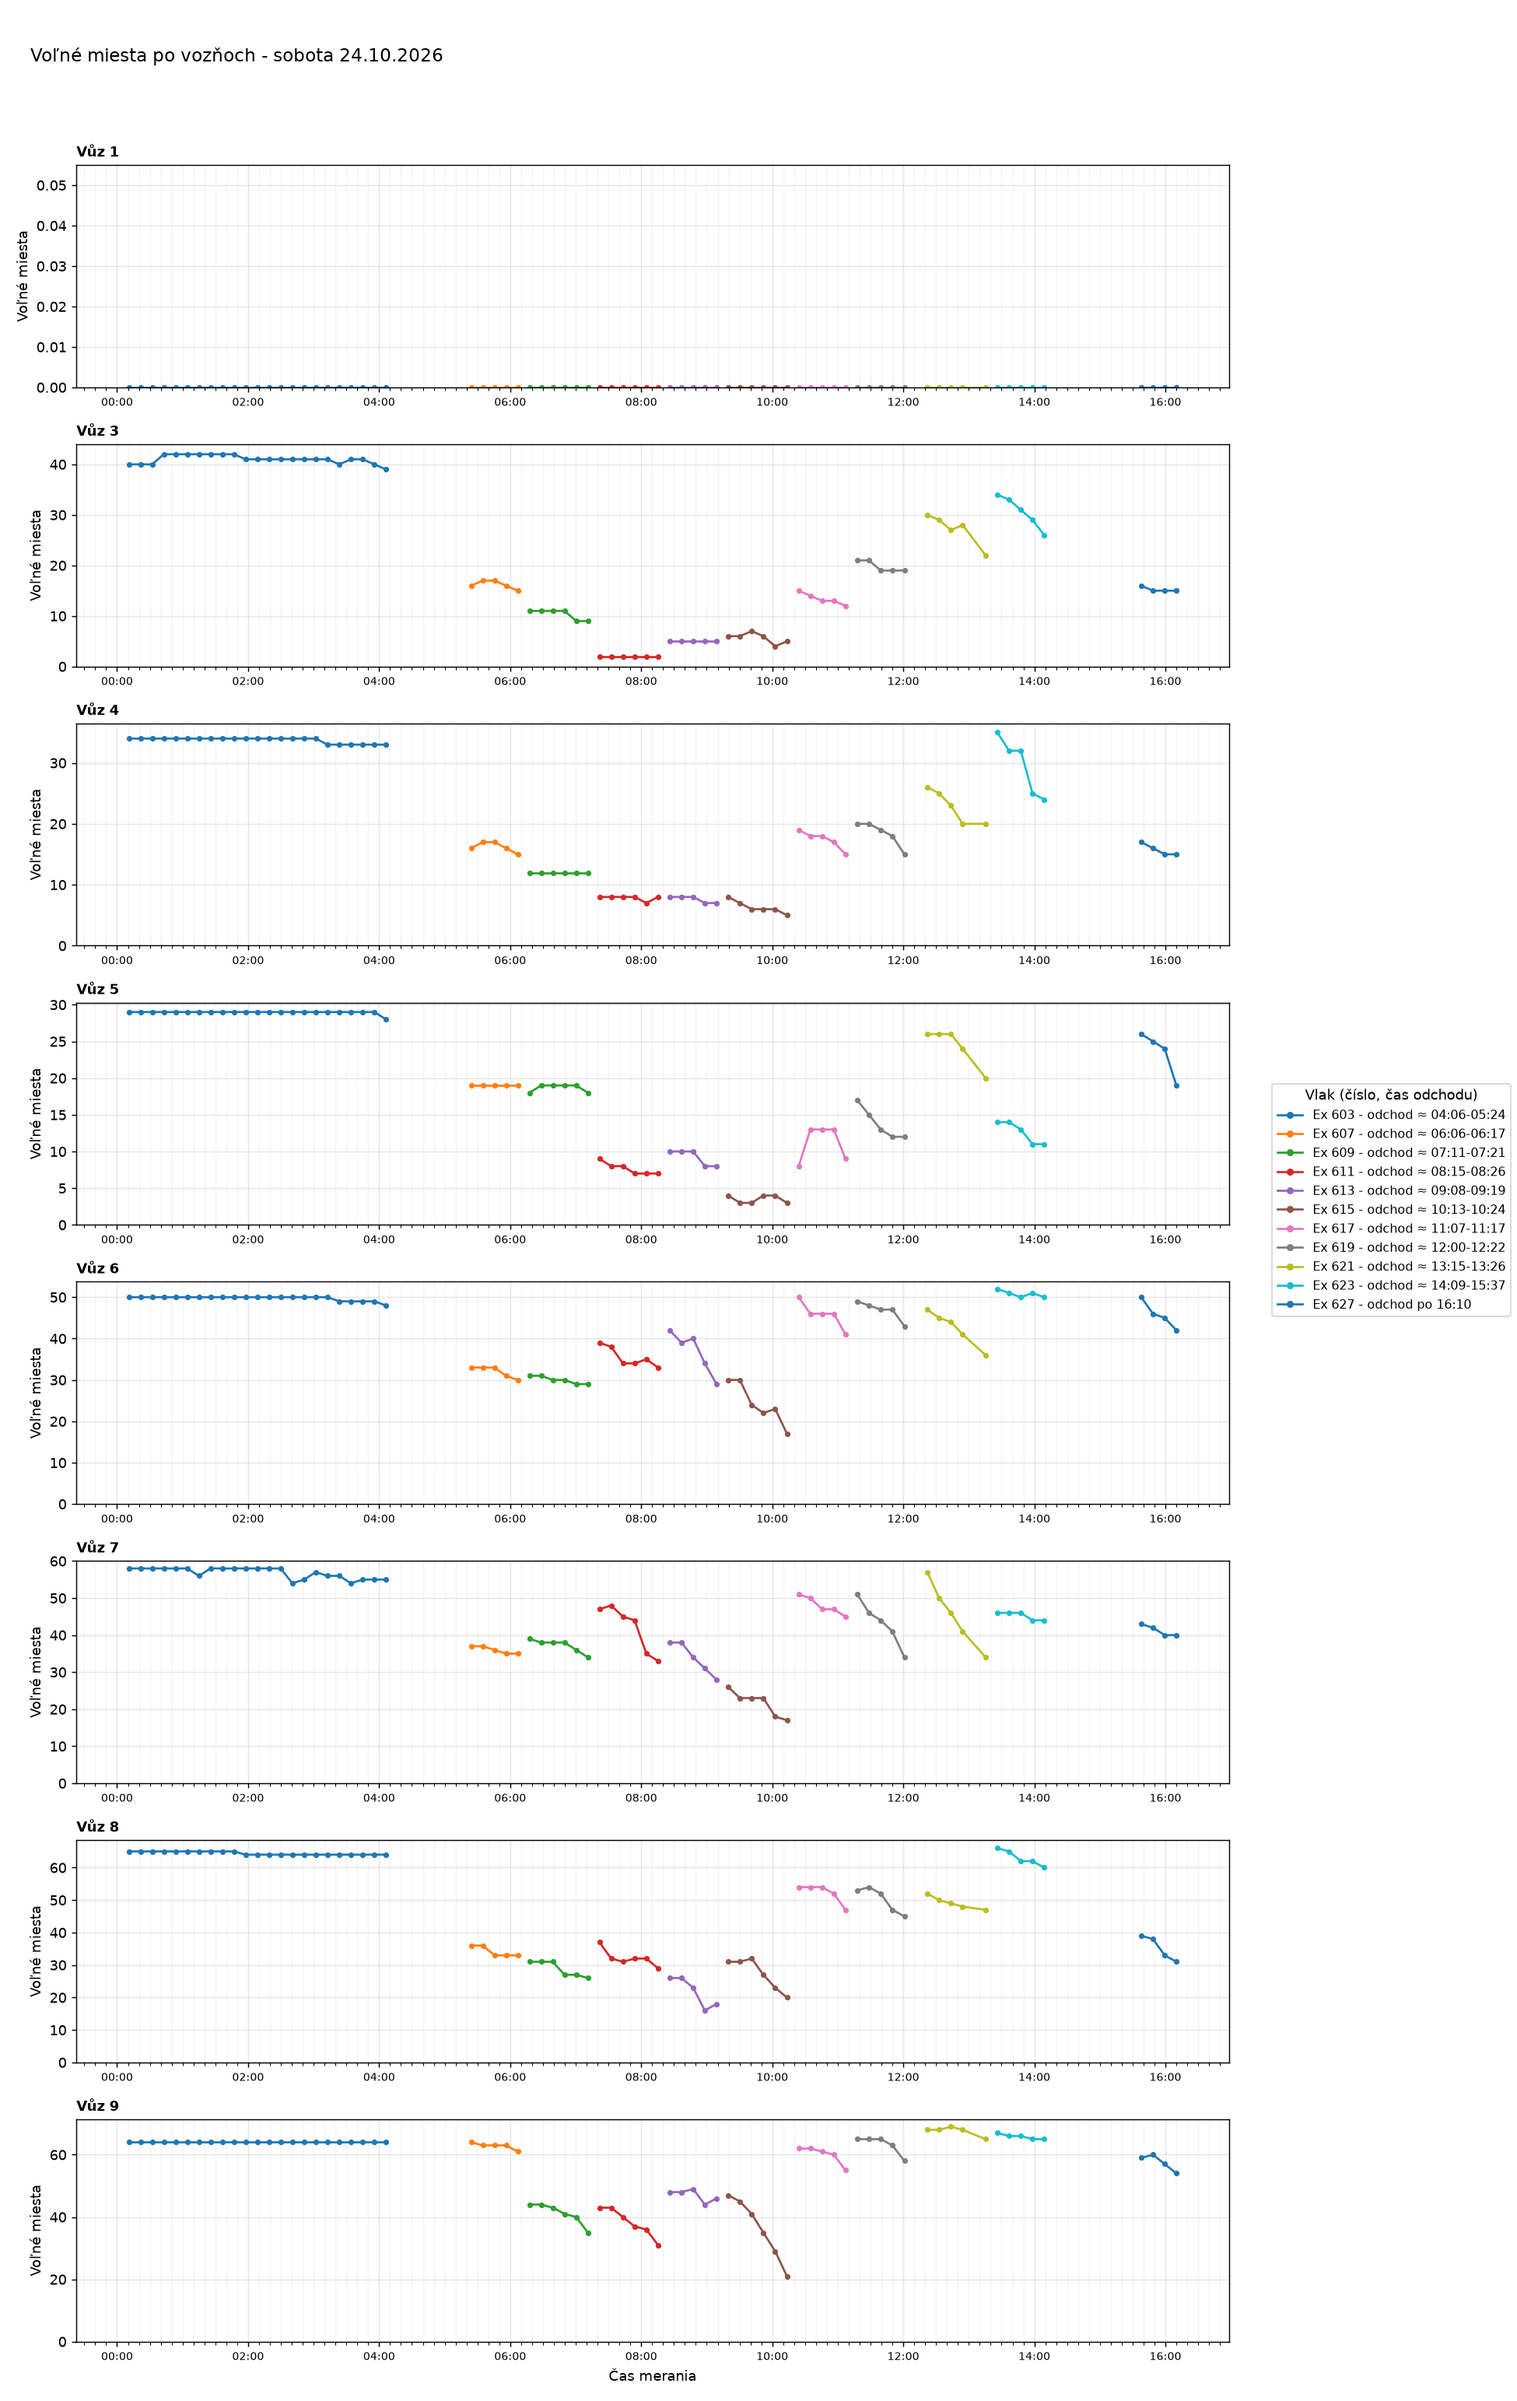
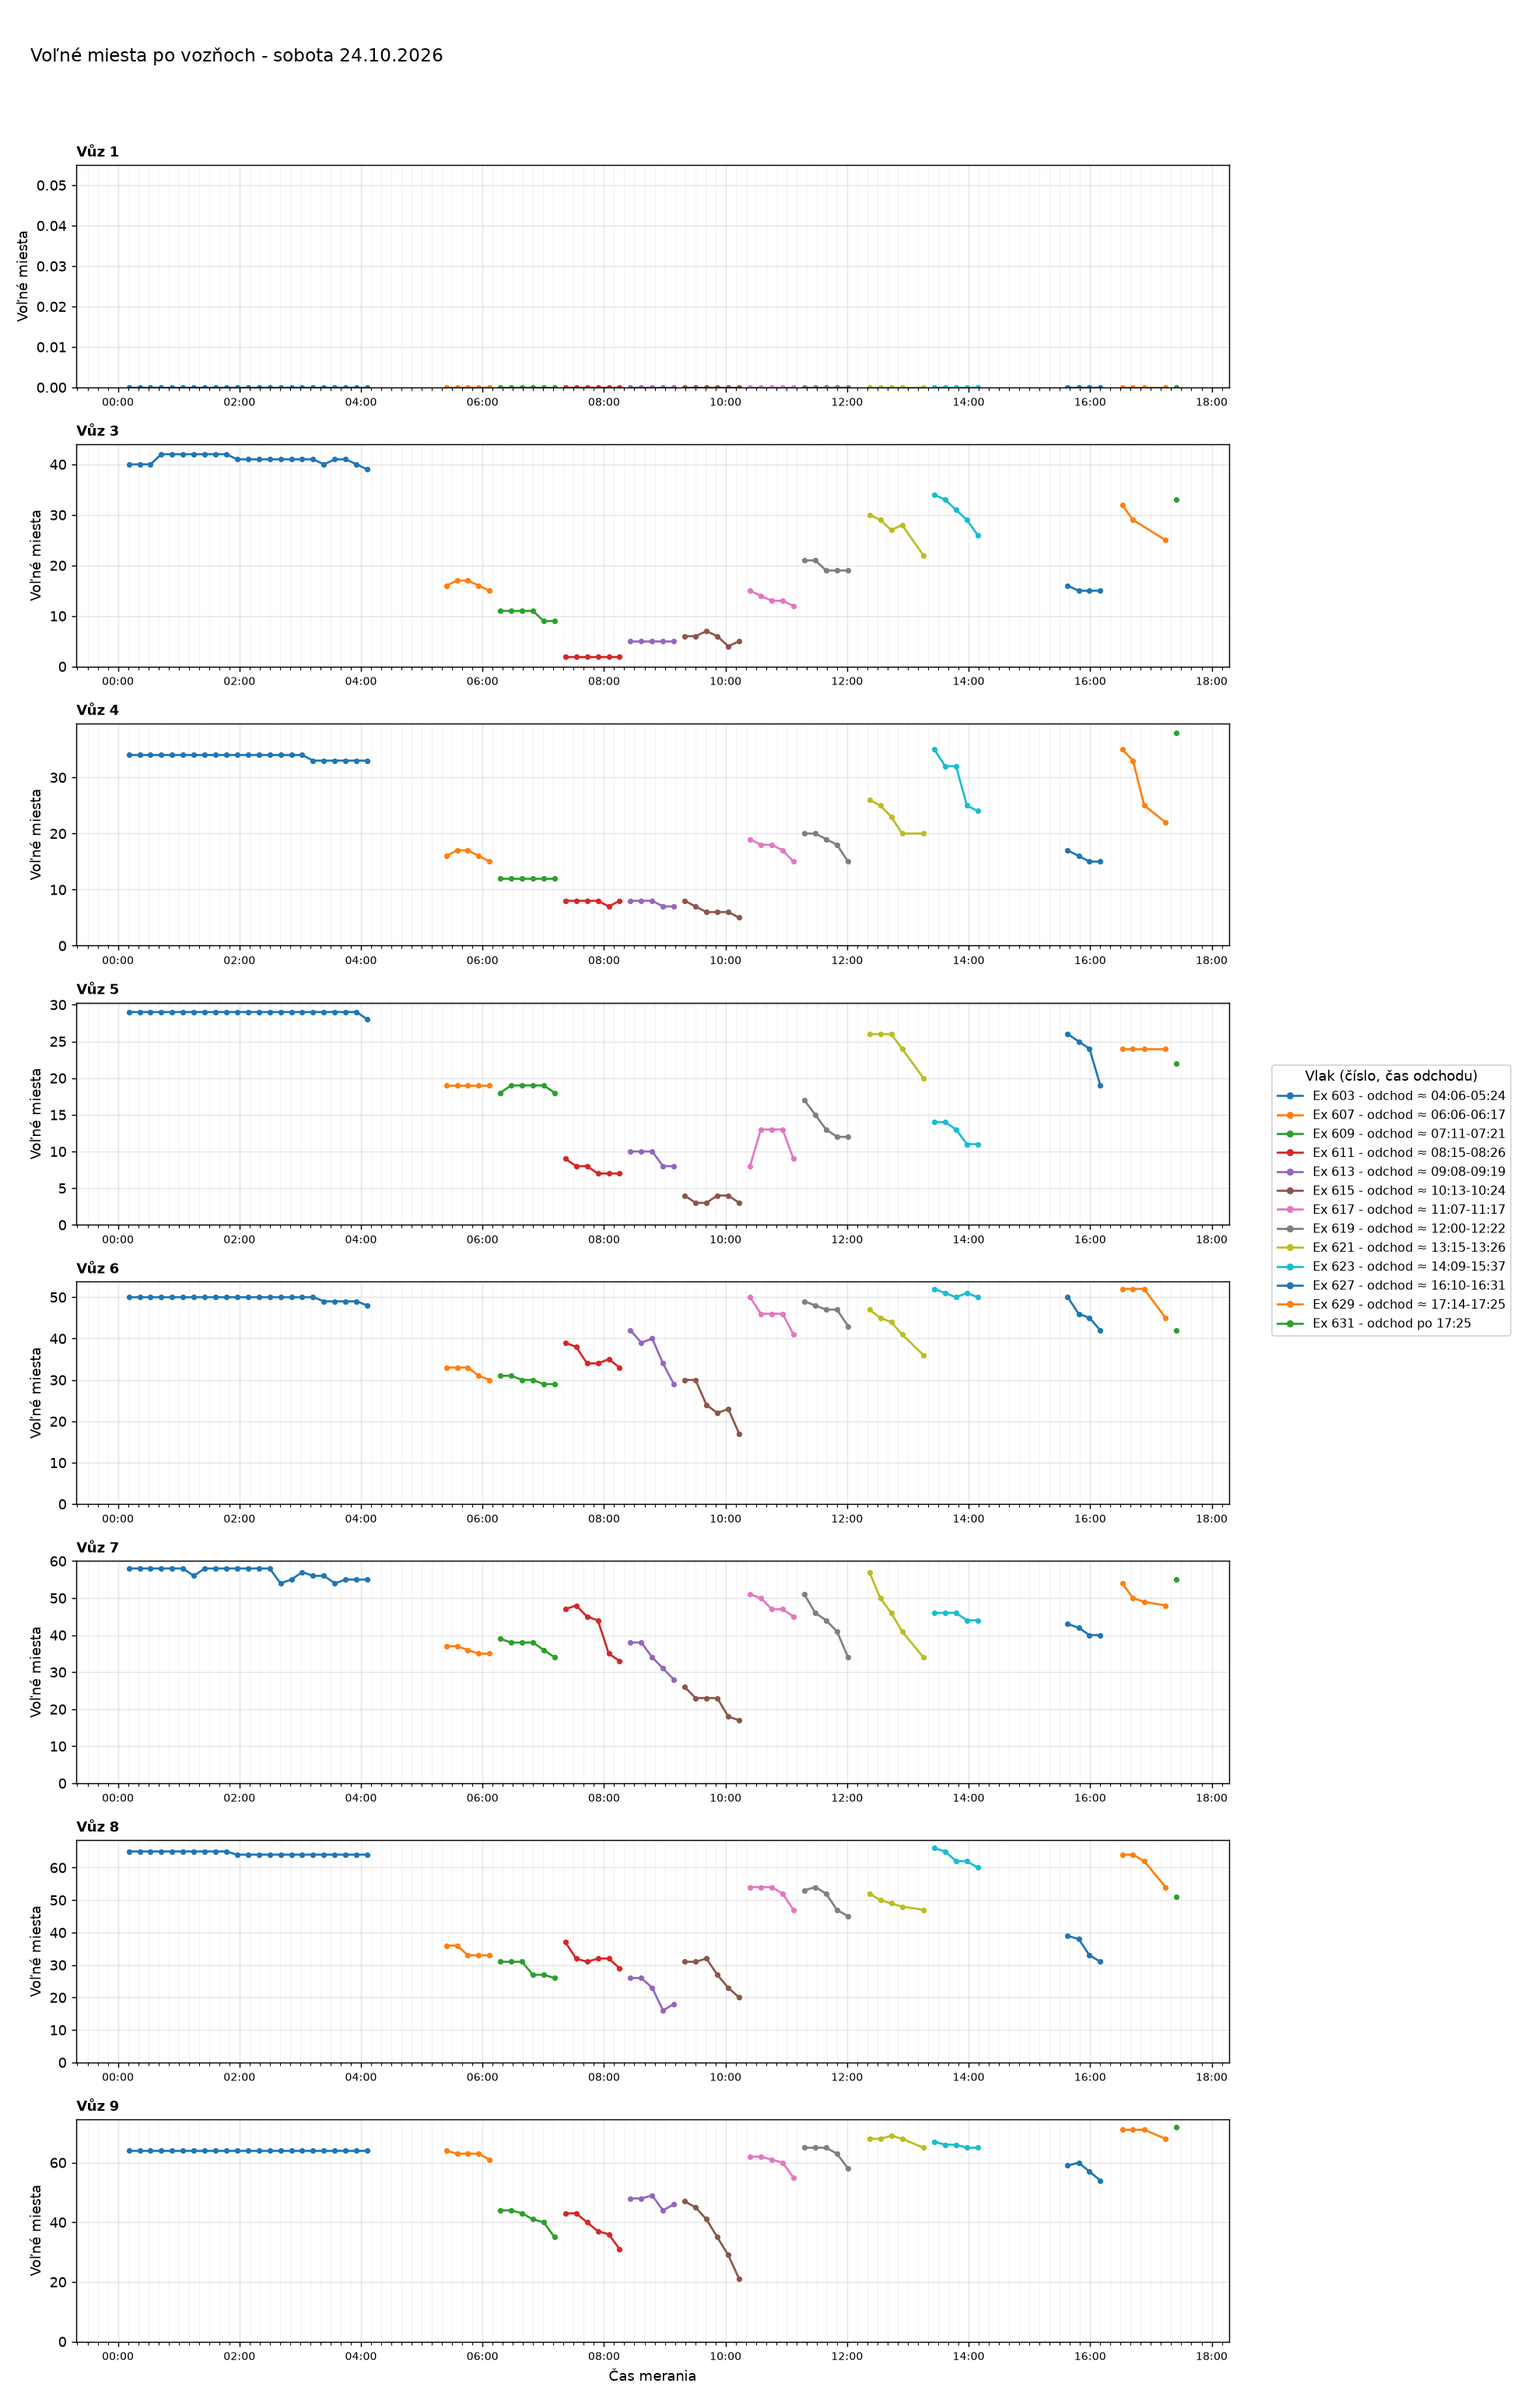
Aktualizácia grafov 2026-10-24 17:31

diff --git a/index.html b/index.html
@@ -35,7 +35,7 @@ h2.oddiel{margin:36px 0 0;font-size:1.4rem}
 <body>
 <main>
 <h1>Voľné miesta vo vlakoch</h1>
-<p class="muted">Posledné meranie: 24.10.2026 16:10 ·
+<p class="muted">Posledné meranie: 24.10.2026 17:25 ·
 <a href="data/obsadenost_data.csv">stiahnuť dáta (CSV)</a></p>
 <nav class="nav"><a href="#suhrn">Súhrn</a><a href="#statistiky">Štatistiky</a><a href="#historia">História grafov</a></nav>
 
@@ -44,7 +44,7 @@ h2.oddiel{margin:36px 0 0;font-size:1.4rem}
 <div class="tablewrap"><table>
 <thead><tr><th>Deň</th><th>Meraní</th><th>Vlakov</th><th>Čas meraní</th></tr></thead>
 <tbody>
-<tr><td><a href="#d2026-10-24">sobota 24.10.2026</a></td><td>75</td><td>11</td><td>00:10-16:10</td></tr>
+<tr><td><a href="#d2026-10-24">sobota 24.10.2026</a></td><td>80</td><td>13</td><td>00:10-17:25</td></tr>
 <tr><td><a href="#d2026-10-23">piatok 23.10.2026</a></td><td>64</td><td>13</td><td>07:25-23:49</td></tr>
 <tr><td><a href="#d2026-10-22">štvrtok 22.10.2026</a></td><td>80</td><td>11</td><td>00:08-16:10</td></tr>
 <tr><td><a href="#d2026-10-21">streda 21.10.2026</a></td><td>96</td><td>15</td><td>00:10-23:58</td></tr>
